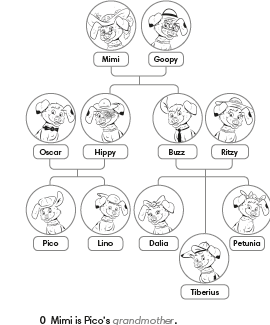
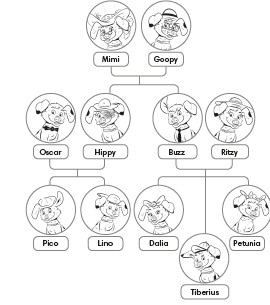
fix(images): replace Unit 3 A & B with crisp full-frame scans, crop bottom text in Unit 1, and remove captions under illustrations

Changed region(s): [[0.0889, 0.0, 1.0, 1.0], [0.1481, 0.9738, 0.6519, 1.0]]

diff --git a/index.html b/index.html
@@ -7,8 +7,8 @@
   <meta name="description" content="Interactive English Language Tests Units 1 to 8 based on Pearson Tests with automatic grading, error review, and teacher reporting.">
   
   <!-- CSS Stylesheets -->
-  <link rel="stylesheet" href="css/style.css?v=20260921_3">
-  <link rel="stylesheet" href="css/components.css?v=20260921_3">
+  <link rel="stylesheet" href="css/style.css?v=20260921_4">
+  <link rel="stylesheet" href="css/components.css?v=20260921_4">
 </head>
 <body>
 
@@ -437,60 +437,60 @@
 
   <!-- JavaScript Modules in Dependency Order -->
   <!-- Go Getter 1 (Level A1) Data Modules -->
-  <script src="js/data/gg1/gg1_unit1.js?v=20260921_3"></script>
-  <script src="js/data/gg1/gg1_unit2.js?v=20260921_3"></script>
-  <script src="js/data/gg1/gg1_unit3.js?v=20260921_3"></script>
-  <script src="js/data/gg1/gg1_unit4.js?v=20260921_3"></script>
-  <script src="js/data/gg1/gg1_mid_year.js?v=20260921_3"></script>
-  <script src="js/data/gg1/gg1_unit5.js?v=20260921_3"></script>
-  <script src="js/data/gg1/gg1_unit6.js?v=20260921_3"></script>
-  <script src="js/data/gg1/gg1_unit7.js?v=20260921_3"></script>
-  <script src="js/data/gg1/gg1_unit8.js?v=20260921_3"></script>
-  <script src="js/data/gg1/gg1_end_of_year.js?v=20260921_3"></script>
+  <script src="js/data/gg1/gg1_unit1.js?v=20260921_4"></script>
+  <script src="js/data/gg1/gg1_unit2.js?v=20260921_4"></script>
+  <script src="js/data/gg1/gg1_unit3.js?v=20260921_4"></script>
+  <script src="js/data/gg1/gg1_unit4.js?v=20260921_4"></script>
+  <script src="js/data/gg1/gg1_mid_year.js?v=20260921_4"></script>
+  <script src="js/data/gg1/gg1_unit5.js?v=20260921_4"></script>
+  <script src="js/data/gg1/gg1_unit6.js?v=20260921_4"></script>
+  <script src="js/data/gg1/gg1_unit7.js?v=20260921_4"></script>
+  <script src="js/data/gg1/gg1_unit8.js?v=20260921_4"></script>
+  <script src="js/data/gg1/gg1_end_of_year.js?v=20260921_4"></script>
 
   <!-- Go Getter 2 (Level A1+) Data Modules -->
-  <script src="js/data/gg2_unit1.js?v=20260921_3"></script>
-  <script src="js/data/gg2_unit2.js?v=20260921_3"></script>
-  <script src="js/data/gg2_unit3.js?v=20260921_3"></script>
-  <script src="js/data/gg2_unit4.js?v=20260921_3"></script>
-  <script src="js/data/gg2_mid_year.js?v=20260921_3"></script>
-  <script src="js/data/gg2_unit5.js?v=20260921_3"></script>
-  <script src="js/data/gg2_unit6.js?v=20260921_3"></script>
-  <script src="js/data/gg2_unit7.js?v=20260921_3"></script>
-  <script src="js/data/gg2_unit8.js?v=20260921_3"></script>
-  <script src="js/data/gg2_end_of_year.js?v=20260921_3"></script>
+  <script src="js/data/gg2_unit1.js?v=20260921_4"></script>
+  <script src="js/data/gg2_unit2.js?v=20260921_4"></script>
+  <script src="js/data/gg2_unit3.js?v=20260921_4"></script>
+  <script src="js/data/gg2_unit4.js?v=20260921_4"></script>
+  <script src="js/data/gg2_mid_year.js?v=20260921_4"></script>
+  <script src="js/data/gg2_unit5.js?v=20260921_4"></script>
+  <script src="js/data/gg2_unit6.js?v=20260921_4"></script>
+  <script src="js/data/gg2_unit7.js?v=20260921_4"></script>
+  <script src="js/data/gg2_unit8.js?v=20260921_4"></script>
+  <script src="js/data/gg2_end_of_year.js?v=20260921_4"></script>
 
   <!-- Go Getter 3 (Level A2) Data Modules -->
-  <script src="js/data/gg3_unit1.js?v=20260921_3"></script>
-  <script src="js/data/gg3_unit2.js?v=20260921_3"></script>
-  <script src="js/data/gg3_unit3.js?v=20260921_3"></script>
-  <script src="js/data/gg3_unit4.js?v=20260921_3"></script>
-  <script src="js/data/gg3_mid_year.js?v=20260921_3"></script>
-  <script src="js/data/gg3_unit5.js?v=20260921_3"></script>
-  <script src="js/data/gg3_unit6.js?v=20260921_3"></script>
-  <script src="js/data/gg3_unit7.js?v=20260921_3"></script>
-  <script src="js/data/gg3_unit8.js?v=20260921_3"></script>
-  <script src="js/data/gg3_end_of_year.js?v=20260921_3"></script>
+  <script src="js/data/gg3_unit1.js?v=20260921_4"></script>
+  <script src="js/data/gg3_unit2.js?v=20260921_4"></script>
+  <script src="js/data/gg3_unit3.js?v=20260921_4"></script>
+  <script src="js/data/gg3_unit4.js?v=20260921_4"></script>
+  <script src="js/data/gg3_mid_year.js?v=20260921_4"></script>
+  <script src="js/data/gg3_unit5.js?v=20260921_4"></script>
+  <script src="js/data/gg3_unit6.js?v=20260921_4"></script>
+  <script src="js/data/gg3_unit7.js?v=20260921_4"></script>
+  <script src="js/data/gg3_unit8.js?v=20260921_4"></script>
+  <script src="js/data/gg3_end_of_year.js?v=20260921_4"></script>
 
   <!-- Go Getter 4 (Level A2+/B1) Data Modules -->
-  <script src="js/data/unit1.js?v=20260921_3"></script>
-  <script src="js/data/unit2.js?v=20260921_3"></script>
-  <script src="js/data/unit3.js?v=20260921_3"></script>
-  <script src="js/data/unit4.js?v=20260921_3"></script>
-  <script src="js/data/mid_year.js?v=20260921_3"></script>
-  <script src="js/data/unit5.js?v=20260921_3"></script>
-  <script src="js/data/unit6.js?v=20260921_3"></script>
-  <script src="js/data/unit7.js?v=20260921_3"></script>
-  <script src="js/data/unit8.js?v=20260921_3"></script>
-  <script src="js/data/end_of_year.js?v=20260921_3"></script>
-  <script src="js/test-data.js?v=20260921_3"></script>
-  <script src="js/illustrations.js?v=20260921_3"></script>
-  <script src="js/validator.js?v=20260921_3"></script>
-  <script src="js/storage.js?v=20260921_3"></script>
-  <script src="js/config.js?v=20260921_3"></script>
-  <script src="js/teacher-service.js?v=20260921_3"></script>
-  <script src="js/ui.js?v=20260921_3"></script>
-  <script src="js/app.js?v=20260921_3"></script>
+  <script src="js/data/unit1.js?v=20260921_4"></script>
+  <script src="js/data/unit2.js?v=20260921_4"></script>
+  <script src="js/data/unit3.js?v=20260921_4"></script>
+  <script src="js/data/unit4.js?v=20260921_4"></script>
+  <script src="js/data/mid_year.js?v=20260921_4"></script>
+  <script src="js/data/unit5.js?v=20260921_4"></script>
+  <script src="js/data/unit6.js?v=20260921_4"></script>
+  <script src="js/data/unit7.js?v=20260921_4"></script>
+  <script src="js/data/unit8.js?v=20260921_4"></script>
+  <script src="js/data/end_of_year.js?v=20260921_4"></script>
+  <script src="js/test-data.js?v=20260921_4"></script>
+  <script src="js/illustrations.js?v=20260921_4"></script>
+  <script src="js/validator.js?v=20260921_4"></script>
+  <script src="js/storage.js?v=20260921_4"></script>
+  <script src="js/config.js?v=20260921_4"></script>
+  <script src="js/teacher-service.js?v=20260921_4"></script>
+  <script src="js/ui.js?v=20260921_4"></script>
+  <script src="js/app.js?v=20260921_4"></script>
 
 </body>
 </html>

diff --git a/js/illustrations.js b/js/illustrations.js
@@ -11,10 +11,6 @@ const Illustrations = {
     return `
       <div class="illustration-container" role="img" aria-label="Illustration for Task 1: Mrs Cook and her accessories">
         <img src="assets/images/mrs_cook.jpg" alt="Mrs Cook and accessories in boutique" class="test-illustration-img" loading="eager">
-        <div class="illustration-caption">
-          <span class="caption-badge">Mrs Cook (Variant A)</span>
-          <span class="caption-sub">✨ Accessories & Style</span>
-        </div>
       </div>
     `;
   },
@@ -26,10 +22,6 @@ const Illustrations = {
     return `
       <div class="illustration-container" role="img" aria-label="Illustration for Task 1: Mrs Smith and her accessories">
         <img src="assets/images/mrs_smith.jpg" alt="Mrs Smith and accessories in boutique" class="test-illustration-img" loading="eager">
-        <div class="illustration-caption">
-          <span class="caption-badge">Mrs Smith (Variant B)</span>
-          <span class="caption-sub">✨ Accessories & Style</span>
-        </div>
       </div>
     `;
   },
@@ -41,10 +33,6 @@ const Illustrations = {
     return `
       <div class="illustration-container" role="img" aria-label="Illustration for Task 2: Gregory Cook at work vs casual">
         <img src="assets/images/gregory_cook.jpg" alt="Gregory Cook - Work clothes vs Casual style" class="test-illustration-img" loading="eager">
-        <div class="illustration-caption">
-          <span class="caption-badge">Gregory Cook (Variant A)</span>
-          <span class="caption-sub">💼 Smart at work vs. 🏠 Casual at home</span>
-        </div>
       </div>
     `;
   },
@@ -56,10 +44,6 @@ const Illustrations = {
     return `
       <div class="illustration-container" role="img" aria-label="Illustration for Task 2: Lee at work vs casual">
         <img src="assets/images/lee.jpg" alt="Lee - Work clothes vs Casual style" class="test-illustration-img" loading="eager">
-        <div class="illustration-caption">
-          <span class="caption-badge">Lee (Variant B)</span>
-          <span class="caption-sub">👔 Smart at work vs. 🛹 Casual at home</span>
-        </div>
       </div>
     `;
   },
@@ -71,12 +55,6 @@ const Illustrations = {
     return `
       <div class="illustration-container" role="img" aria-label="${alt}">
         <img src="${src}" alt="${alt}" class="test-illustration-img" loading="eager">
-        ${badge ? `
-          <div class="illustration-caption">
-            <span class="caption-badge">${badge}</span>
-            ${sub ? `<span class="caption-sub">${sub}</span>` : ""}
-          </div>
-        ` : ""}
       </div>
     `;
   },

diff --git a/css/components.css b/css/components.css
@@ -119,29 +119,12 @@
 }
 
 .illustration-caption {
-  display: flex;
-  align-items: center;
-  justify-content: space-between;
-  flex-wrap: wrap;
-  gap: 0.5rem;
-  padding: 0.75rem 1.25rem;
-  background: #F8FAFC;
-  border-top: 1px solid var(--border-color);
+  display: none !important;
 }
 
-.caption-badge {
-  background: #1E293B;
-  color: #FFFFFF;
-  padding: 0.25rem 0.75rem;
-  border-radius: var(--radius-full);
-  font-size: 0.8rem;
-  font-weight: 700;
-}
-
+.caption-badge,
 .caption-sub {
-  color: var(--primary);
-  font-size: 0.85rem;
-  font-weight: 600;
+  display: none !important;
 }
 
 /* ==========================================================================
